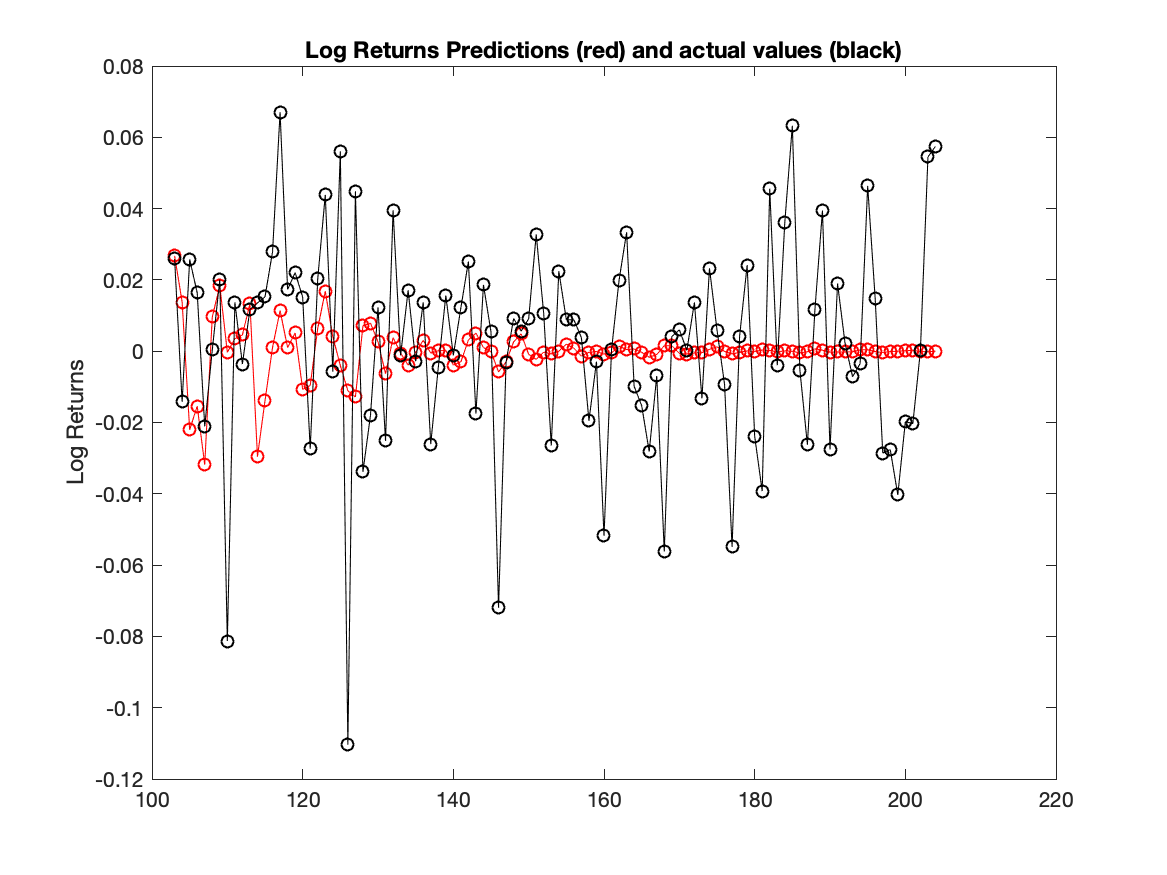
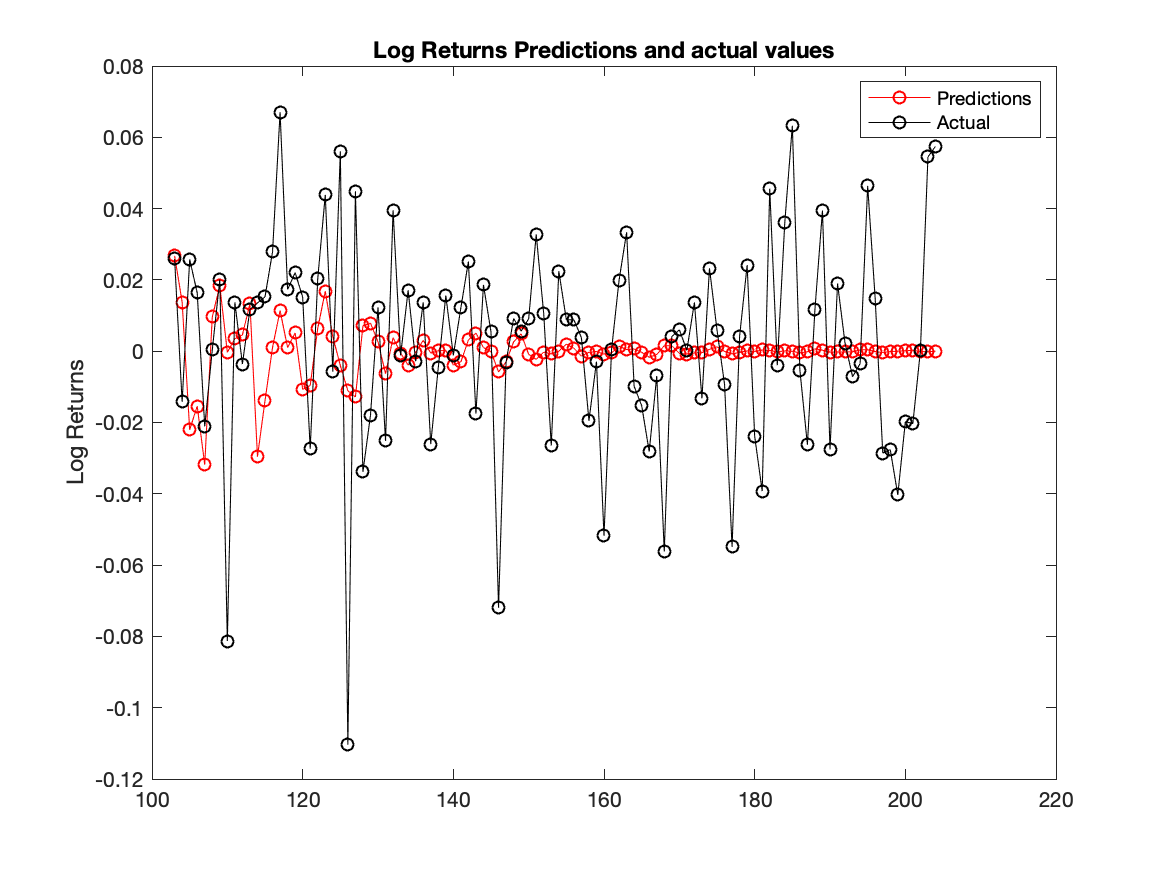
Problem 3: Linear forecasts

Changed region(s): [[0.2776, 0.0309, 0.8946, 0.1543]]

diff --git a/main.tex b/main.tex
@@ -96,7 +96,58 @@ We can see a steady decrease in the ACF for the exchange data which indicates th
 
 \section*{Problem 3}
 We split the log returns into a training (first 102 observations) and the test set ($t = 103,\ldots, 204$).
-Next we computed the autocovariance function for 
+Next we computed the autocovariance function $\hat{\gamma}$ using only the data from the training data set for each $h = 1,\ldots,20$.
+$$
+\hat{\gamma}(h) = \frac{1}{n} \sum_{t = 1}^{n - h}(X_{t + h} - \overline{X}) (X_t - \overline{X}) = \sum_{t = 1}^{n - h} X_{t + h} X_t
+$$
+
+We use these values in the sample covariance matrix
+$$
+\hat{\Gamma}_{20} = \begin{bmatrix}
+    \hat{\gamma}(0)      & \hat{\gamma}(1) & \hat{\gamma}(2) & \dots & \hat{\gamma}(19) \\
+    \hat{\gamma}(1)       & \hat{\gamma}(0) & \hat{\gamma}(0) & \dots & \hat{\gamma}(18) \\
+    \vdots & \vdots & \vdots & \ddots & \vdots \\
+    \hat{\gamma}(19)       & \hat{\gamma}(18) & \hat{\gamma}(17) & \dots & \hat{\gamma}(0)
+\end{bmatrix}
+$$
+and solve for the coefficients, $a_1,\ldots, a_n$
+$$
+\hat{\Gamma}_{20} (a_1,\ldots, a_n)^T = (\hat{\gamma}(20), \hat{\gamma}(19),\ldots, \hat{\gamma}(1))^T
+$$
+Which results in the linear forecasts
+\begin{align*}
+b_n^l(z_{n-1}, \ldots, z_{n - 20}) &= a_1 z_{n - 1} + a_2 z_{n - 2} + \ldots + a_{20} z_{n - 20}\\
+&= -0.098z_{n-1} + -0.018z_{n-2} + -0.179z_{n-3} + 0.101z_{n-4} + \\
+&\qquad 0.015z_{n-5} + 0.088z_{n-6} + 0.115z_{n-7} + -0.097z_{n-8} +\\
+&\qquad -0.036z_{n-9} + 0.061z_{n-10} + 0.013z_{n-11} + 0.096z_{n-12} +\\
+&\qquad 0.098z_{n-13} + -0.048z_{n-14} + 0.051z_{n-15} + -0.035z_{n-16} +\\
+&\qquad 0.005z_{n-17} + -0.158z_{n-18} + 0.062z_{n-19} + 0.192z_{n-20}
+\end{align*}
+
+In Figure \ref{fig:log_preds} we show the predictions in red and the actual values in black.
+We can see as we go later in time the predictions tend towards the mean value of 0.
+
+\begin{figure}[H]
+\includegraphics[width=10cm]{plots/log_returns_preds.png}
+\centering
+\caption{Linear predictions for $n = 103,\ldots, 204$}
+\label{fig:log_preds}
+\end{figure}
+
+We computed the mean squared error
+$$
+\frac{1}{102} \sum_{n = 103}^{204} (b_n^l(z_{n-1}, \ldots, z_{n - 20}) - z_n)^2
+&= 0.00088
+$$
+where the prediction of just using the mean is
+$$
+\frac{1}{102} \sum_{103}^{204} z_n^2 = 0.00089
+$$
+We can see the the linear forecast MSE is almost exactly the same as the mean prediction.
+We showed in problem 2 that the log returns looked iid.
+This means that we have no correlation (besides noise) between the points in time.
+We do not have any signal to predict from which results in the the linear forecasts being almost the same as the mean prediction.
+We can see this behavior in Figure \ref{fig:log_preds} by noticiing that the predictions tend toward 0 as we go towards the end of the predictions.
 
 \section*{Problem 5}
 \subsection*{Part a}

diff --git a/project1.m b/project1.m
@@ -104,8 +104,16 @@ coefs = train_gamma_mat \ flip(gm(2:end)');
 preds = zeros(n_returns, 1);
 preds(1:102) = training;
 for i = 103:n_returns
-    preds(i) = dot(preds(i-1:-1:i-20), coefs);
+    preds(i) = preds(i-1:-1:i-20)' * coefs;    
 end
+
+% Print out the coefficients nicely for latex
+coef_format = arrayfun(@(x) sprintf("%.3f", x), coefs);
+zs_format = arrayfun(@(x) sprintf("z_{n-%d}",x), 1:20);
+% {' + '}, 
+blp_format = strcat(coef_format', zs_format);
+% add plus between coefficients
+blp_format = strjoin(blp_format, ' + ');
 
 % Plot the predictions (red) and the actual values (black)
 figure;
@@ -114,8 +122,9 @@ preds_plot.Color = "red";
 hold on;
 actual_plot = plot(103:n_returns, test, '-o');
 actual_plot.Color = "black";
-title("Log Returns Predictions (red) and actual values (black)");
+title("Log Returns Predictions and actual values");
 ylabel("Log Returns");
+legend("Predictions", "Actual");
 saveas(gcf,'plots/log_returns_preds.png');
 
 % Plot the residuals

diff --git a/acvf.m b/acvf.m
@@ -1,5 +1,6 @@
 function [gm, gamma_mat, acf] = acvf(data, h)
     % gamma_mat is sample covariance matrix
+    % gm is the gamma values
     gm = zeros(1,h+1);
     n = length(data);
     mx = mean(data);
